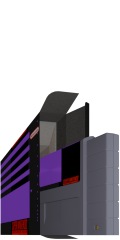
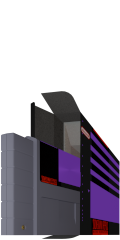
changed direction shelf is facing and updated all images

diff --git a/themes/chikin/assets/css/games.css b/themes/chikin/assets/css/games.css
@@ -1231,7 +1231,7 @@ whitespace (flex display of parent replaces this behaviour) */
 
   display: flex;
   flex-wrap: wrap;
-  flex-direction: row-reverse;
+  flex-direction: row;
   justify-content: space-around;
 
   /* using gap to space items horizontally triggers a wrap
@@ -1243,10 +1243,10 @@ whitespace (flex display of parent replaces this behaviour) */
     repeating-linear-gradient(
       var(--theme-games-content-color-light) 0px,
       var(--theme-games-content-color) 2px,
-      var(--theme-games-main-color) 36px,
-      var(--theme-games-main-color-dark) 62px,
-      #0a122ca8 64px,
-      transparent 64px, transparent 146px
+      var(--theme-games-main-color) 26px,
+      var(--theme-games-main-color-dark) 42px,
+      #0a122c66 43px,
+      transparent 43px, transparent 146px
     ),
     
     /* shelf back shadow */
@@ -1289,19 +1289,18 @@ whitespace (flex display of parent replaces this behaviour) */
   background-image:
     linear-gradient(
       90deg,
-      transparent calc(100% - 51px),
-      var(--theme-games-main-color-dark) calc(100% - 50px),
-      var(--theme-games-main-color) 100%
+      var(--theme-games-main-color),
+      var(--theme-games-main-color-dark) 50px,
+      transparent 51px
     );
     
   
   mask-image:
     /* perspective */
     linear-gradient(
-      130deg,
-      transparent calc(100% - 94px),
-      white calc(100% - 93px),
-      white 100%
+      40deg,
+      white 111px,
+      transparent 112px
     ),
 
     /* vertical shelf spacing */
@@ -1372,10 +1371,10 @@ whitespace (flex display of parent replaces this behaviour) */
 
   position: absolute;
   bottom: var(--bottom);
-  left: var(--left);
+  right: var(--left);
   
   pointer-events: none;
-  filter: drop-shadow(8px 0px 4px #0b0b14a0);
+  filter: drop-shadow(-8px 0px 4px #0b0b14a0);
 }
 
 .shelf .shelf-item:has(.item-tabber:hover)::after,
@@ -1404,12 +1403,12 @@ whitespace (flex display of parent replaces this behaviour) */
 
   position: absolute;
   bottom: var(--bottom);
-  left: calc(var(--left) + var(--extend));
+  right: calc(var(--left) + var(--extend));
 
   display: none;
 
   pointer-events: none;
-  filter: drop-shadow(8px 0px 4px #0b0b14a0);
+  filter: drop-shadow(-8px 0px 4px #0b0b14a0);
 }
 
 .shelf .shelf-item:has(.item-tabber:hover)::before,
@@ -1423,33 +1422,33 @@ whitespace (flex display of parent replaces this behaviour) */
 /* SHELF SURROUNDING CONSTRUCT */
 .shelf .shelf-left {
   grid-area: left;
-
+  
   background-image:
     linear-gradient(
       90deg,
-      var(--theme-games-main-color-dark),
-      var(--theme-games-main-color),
-      var(--theme-games-main-color) calc(100% - 14px),
+      transparent,
+      transparent calc(100% - 14px),
       
-      var(--theme-games-main-color-light)  calc(100% - 14px),
-      var(--theme-games-main-color-light)  calc(100% - 13px),
+      var(--theme-games-main-color-dark)  calc(100% - 14px),
+      var(--theme-games-main-color-dark)  calc(100% - 13px),
 
       var(--theme-games-main-color) calc(100% - 12px),
       var(--theme-games-main-color) calc(100% - 2px),
 
-      var(--theme-games-main-color) calc(100% - 2px),
-      var(--theme-games-main-color-dark) 100%
-    );
-  
-  mask-image:
-    linear-gradient(
-      130deg,
-      transparent 38px,
-      white 39px,
-      white
+      var(--theme-games-main-color-light) calc(100% - 1px),
+      var(--theme-games-main-color-light) 100%
     );
 
-  z-index: 5;
+
+  z-index: 1;
+}
+
+.shelf .shelf-top {
+  grid-area: top;
+}
+
+.shelf .shelf-bottom {
+  grid-area: bottom;
 }
 
 .shelf .shelf-top,
@@ -1468,34 +1467,34 @@ whitespace (flex display of parent replaces this behaviour) */
   z-index: 1;
 }
 
-.shelf .shelf-top {
-  grid-area: top;
-}
-
-.shelf .shelf-bottom {
-  grid-area: bottom;
-}
-
 .shelf .shelf-right {
   grid-area: right;
 
   background-image:
     linear-gradient(
       90deg,
-      var(--theme-games-main-color-light),
-      var(--theme-games-main-color-light) 1px,
+      var(--theme-games-main-color-dark),
+      var(--theme-games-main-color-dark) 1px,
 
       var(--theme-games-main-color) 2px,
-      var(--theme-games-main-color) 12px,
+      var(--theme-games-main-color) 11px,
 
-      var(--theme-games-main-color) 12px,
-      var(--theme-games-main-color-dark) 3px,
+      var(--theme-games-main-color-light) 12px,
+      var(--theme-games-main-color-light) 13px,
 
-      transparent 3px
+      var(--theme-games-main-color) 13px,
+      var(--theme-games-main-color-dark)
+    );
+  
+  mask-image:
+    linear-gradient(
+      220deg,
+      transparent 32px,
+      white 33px,
+      white
     );
 
-
-  z-index: 1;
+  z-index: 5;
 }
 
 .shelf .shelf-base {
@@ -1511,9 +1510,9 @@ whitespace (flex display of parent replaces this behaviour) */
   background-image:
     linear-gradient(
       90deg,
-      transparent 0%, transparent calc(100% - 51px),
-      var(--theme-games-main-color-dark) calc(100% - 51px),
-      var(--theme-games-main-color) 100%
+      var(--theme-games-main-color),
+      var(--theme-games-main-color-dark) 51px,
+      transparent 51px, transparent
     );
 
   z-index: 1;
@@ -1540,23 +1539,14 @@ whitespace (flex display of parent replaces this behaviour) */
   mask-image:
     /* perspective */
     linear-gradient(
-      130deg,
-      white calc(100% - 15px),
-      transparent calc(100% - 14px),
-      transparent 100%
+      40deg,
+      transparent,
+      transparent 18px,
+      white 19px
     );
 
   z-index: 1;
 }
-
-
-/* shelf... */
-/* main shelf construct--- */
-/* contains colour variables and layout attributes */
-
-/* ---main shelf construct */
-
-
 /* . --- --- --- --- --- --- . */
 /* | ...   END SHELF STYLING | */
 /* '-------------------------' */

diff --git a/themes/chikin/layouts/shortcodes/gaming/games/shelf.html b/themes/chikin/layouts/shortcodes/gaming/games/shelf.html
@@ -28,7 +28,7 @@ that hold platform specific sizing information (and sort order) -->
     <!-- N64 (wdth: 74, lft: 40)-->
     {{ $_sort = "00" }}
 
-    {{ $_left = -30 }}
+    {{ $_left = -25 }}
     {{ $_width = (math.Add 74 $_left) }}
 
     {{ $_extend = 24 }}
@@ -36,7 +36,7 @@ that hold platform specific sizing information (and sort order) -->
     <!-- SNES (wdth: 67, lft: 39)-->
     {{ $_sort = "10" }}
 
-    {{ $_left = -29 }}
+    {{ $_left = -24 }}
     {{ $_width = (math.Add 67 $_left) }}
 
     {{ $_extend = 20 }}
@@ -44,7 +44,7 @@ that hold platform specific sizing information (and sort order) -->
     <!-- Dreamcast (wdth: 44, lft: 27)-->
     {{ $_sort = "20" }}
 
-    {{ $_left = -17 }}
+    {{ $_left = -12 }}
     {{ $_width = (math.Add 44 $_left) }}
 
     {{ $_extend = 10 }}
@@ -52,7 +52,7 @@ that hold platform specific sizing information (and sort order) -->
     <!-- GBA  (wdth: 44, lft: 24)-->
     {{ $_sort = "30" }}
 
-    {{ $_left = -14 }}
+    {{ $_left = -9 }}
     {{ $_width = (math.Add 44 $_left) }}
     
     {{ $_extend = 10 }}
